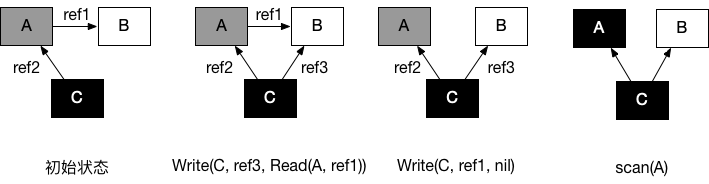
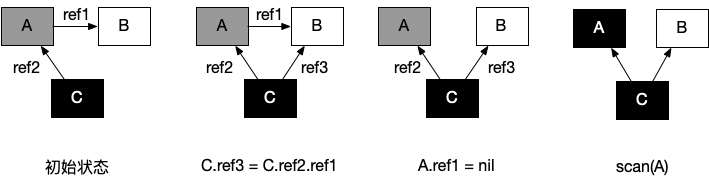
gc: revisions

diff --git a/GC/GC.md b/GC/GC.md
@@ -182,7 +182,10 @@ func keepalloc3() {
 
 ## 7. 并发标记清除法的难点是什么？
 
-在没有用户态代码并发修改`三色抽象`的情况下，回收可以正常结束。并发回收的根本问题在于，用户态代码在回收过程中会并发的更新对象图，从而造成赋值器和回收器可能对对象图的结构产生不同的认知。这时以一个固定的三色波面作为回收过程前进的边界则不再合理。
+在没有用户态代码并发修改`三色抽象`的情况下，回收可以正常结束。
+但是并发回收的根本问题在于，用户态代码在回收过程中会并发的更新对象图，
+从而造成赋值器和回收器可能对对象图的结构产生不同的认知。
+这时以一个固定的三色波面作为回收过程前进的边界则不再合理。
 
 我们不妨考虑赋值器的写操作的例子：
 
@@ -190,17 +193,17 @@ func keepalloc3() {
 | ---- | -------------------- | ------------------ | ------------------------------------------------------------ |
 | 1    | shade(A, gray)       |                    | 回收器：根对象的子节点着色为灰色对象                         |
 | 2    | shade(C, black) |                    | 回收器：当所有子节点着色为灰色后，将节点着为黑色             |
-| 3    |                      | Write(C.ref3, B)   | 赋值器：并发的修改了 C 的子节点                              |
-| 4    |                      | Write(A.ref1, nil) | 赋值器：并发的修改了 C 的子节点                              |
+| 3    |                      | C.ref3 = C.ref2.ref1   | 赋值器：并发的修改了 C 的子节点                              |
+| 4    |                      | A.ref1 = nil | 赋值器：并发的修改了 A 的子节点                              |
 | 5    | shade(A.ref1, gray)  |                    | 回收器：进一步扫描着色为灰色对象的子节点着色为灰色对象，这时由于 `A.ref1` 为 `nil`，什么事情也没有发生 |
-| 6    | shade(A, black)      |                    | 回收器：由于所有子节点均已标记，回收器也不会重新扫描已经被标记为黑色的对象，此时 A 被着色为黑色，进而 B 在此次回收过程中永远不会被标记为黑色，进而错误的回收。 |
+| 6    | shade(A, black)      |                    | 回收器：由于所有子节点均已标记，回收器也不会重新扫描已经被标记为黑色的对象，此时 A 被着色为黑色，`scan(A)` 什么也不会发生，进而 B 在此次回收过程中永远不会被标记为黑色，进而错误的回收。 |
 
 - 初始状态：假设某个黑色对象 C 指向某个灰色对象 A ，而 A 指向白色对象 B；
-- `Write(C.ref3, Read(A.ref1))`：而此时赋值器并发的将黑色对象 C 指向（ref3）了白色对象 B；
-- `Write(A.ref1, nil)`：并将灰色对象 A 对白色对象 B 的引用移除（ref2）；
+- `C.ref3 = C.ref2.ref1`：而此时赋值器并发的将黑色对象 C 指向（ref3）了白色对象 B；
+- `A.ref1 = nil`：并将灰色对象 A 对白色对象 B 的引用移除（ref2）；
 - 最终状态：则在继续扫描的过程中，白色对象 B 永远不会被标记为黑色对象了（回收器不会重新扫描黑色对象），进而产生被错误回收的对象 B。
 
-![gc-mutator](https://user-images.githubusercontent.com/7698088/71046685-f98dd900-2173-11ea-8eb7-229b54afe152.png)
+![gc-mutator](./assets/gc-mutator.png)
 
 总而言之，并发标记清除中面临的一个根本问题就是如何保证标记与清除过程的正确性。
 
